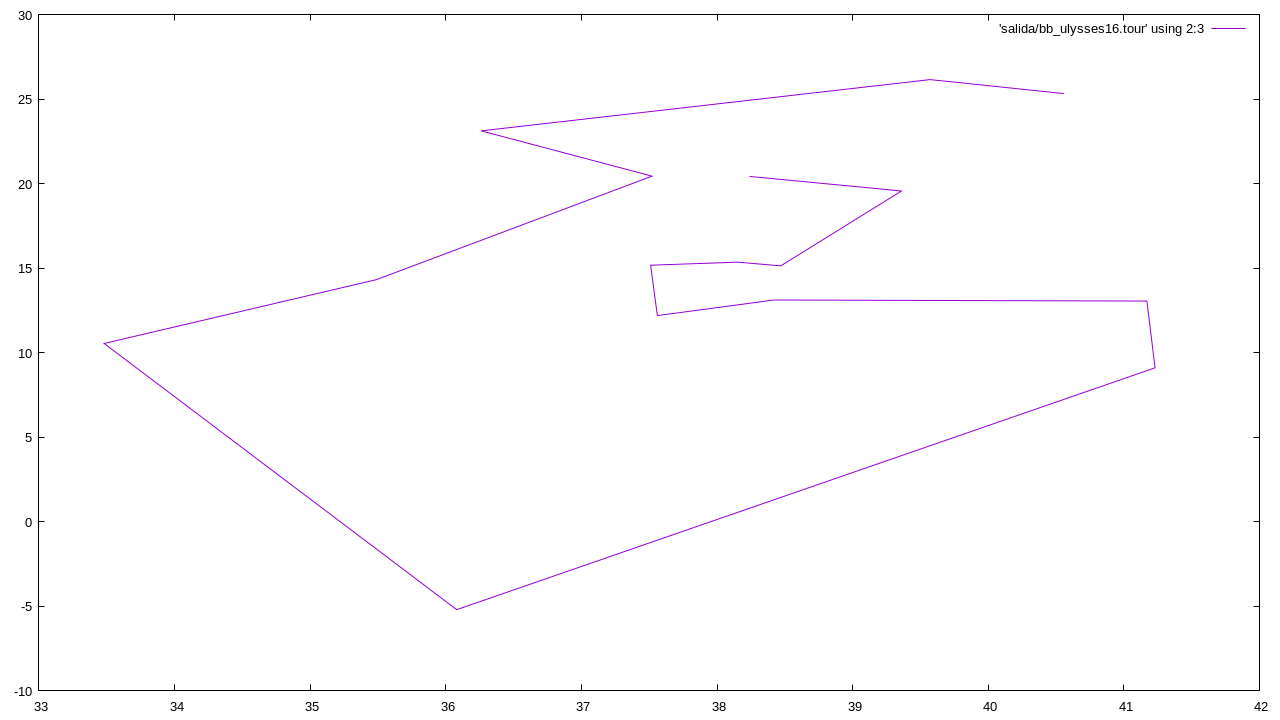
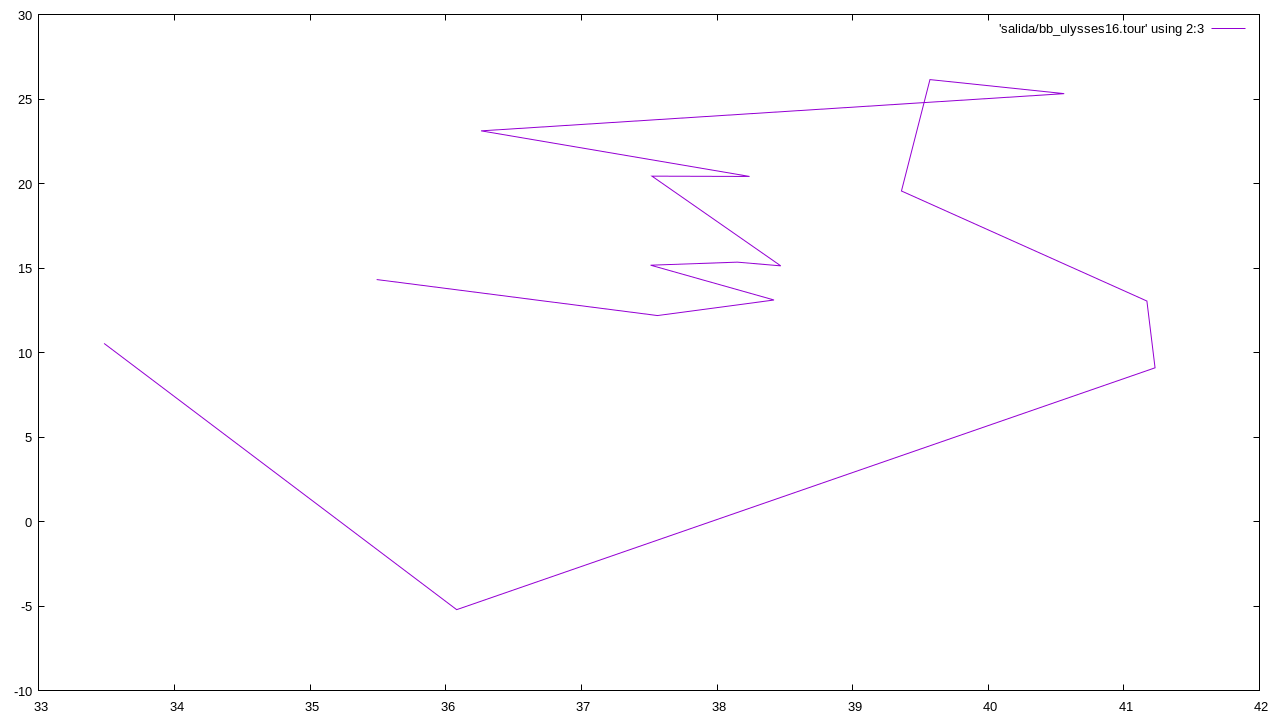
Terminado bb al completo

diff --git a/branch/src/bb.cpp b/branch/src/bb.cpp
@@ -16,47 +16,6 @@
 
 using namespace std;
 
-//============================
-// Auxiliar Functions
-//============================
-/*void printMatrix(vector<vector<double> > &matrix){
-  for(int i=0; i < matrix.size(); i++){
-    for(int j=0; j < matrix[i].size(); j++){
-      printf("%.4f ", matrix[i][j]);
-    }
-    cout << endl;
-  }
-}
-
-template <typename T>
-void printVector(vector<T> &v){
-
-  cout << "[";
-  for(int i =0; i < v.size()-1; i++){
-    cout << v[i] << ",";
-  }
-
-  cout << v[v.size()-1];
-
-  cout << "]";
-}
-
-//Calculate the distance between two nodes
-double distance(pair<double, double> &c1, pair<double, double> &c2){
-  return hypot(c2.first - c1.first, c2.second - c1.second);
-}*/
-
-//Compute length given a path. Takes 2 arguments, the path and the matrix
-//with the distance between cities
-/*double compute_length(vector<int> &path, vector<vector<double> > &cities){
-  double result = 0;
-  for(int i = 0; i < path.size()-1; i++){
-    result += cities[path[i]][path[i+1]];
-  }
-  result += cities[path[0]][path[path.size()-1]];
-  return result;
-}*/
-
 bool visitado(int c, const vector<int> &sol){
 	for(int i=0; i<sol.size(); i++){
 		if(sol[i]==c){
@@ -66,22 +25,25 @@ bool visitado(int c, const vector<int> &sol){
 	return false;
 }
 
+double rowMin(int i, vector<double> &row){
+	double row_min = numeric_limits<int>::max();
+	for(int j=i+1; j < row.size(); j++){
+		  if(row[j] < row_min){
+			row_min = row[j];
+		  }
+	}
+	return row_min;
+}
+
 //Get the sum of the minimum values of each not-used row
 double estimacion(vector<int> &candidates, vector<vector<double> > &cities){
 
   double result = 0;
-  double row_min = numeric_limits<int>::max();
+  double row_min;
 
   for(int i = 0; i < cities.size()-1; i++){
   	if(!visitado(i,candidates)){
-		for(int j = i+1; j < cities.size(); j++){
-		  if(cities[i][j] < row_min){
-			row_min = cities[i][j];
-		  }
-		}
-
-		result += row_min;
-		row_min = numeric_limits<int>::max();
+		result += rowMin(i, cities[i]);
     }
   }
 
@@ -139,32 +101,38 @@ void magic(priority_queue<Comparator, vector<pair<double, vector<int> > > > &ali
   //The first coordinate is the possible cost of the path and the second
   //is the actual path
   
- pair<double, vector<int> > solution = alives.top();	//Toma el primero de la cola
- double local_length = solution.first;					//Guardamos la distancia actual recorrida
+ pair<double, vector<int> > aux, solution = alives.top();	//Toma el primero de la cola
+ double min, diferencia, local_length = solution.first;					//Guardamos la distancia actual recorrida
  alives.pop(); 											//Quitamos el elemento de la cima
  
   if(solution.second.size() == cities.size()){			//Si es una hoja, le añade el último arco (hacia el inicio)
   	local_length += cities[solution.second[solution.second.size()-1]][solution.second[0]];
+  }else{
+  	min = estimacion(solution.second, cities);
   }
   
   if(local_length < best.first){					//Si sobrepasa la cota se poda el nodo (se ignora)
-	  if(solution.second.size() < cities.size()){	// Si no es una hoja, desarrolla los nodos hijos (si 
-		  for (int i=1; i<cities.size(); i++){		//tienen una estimación válida)
+	  if(solution.second.size() < cities.size()){			// Si no es una hoja, desarrolla los nodos hijos (si 
+	  	  solution.second.push_back(solution.second[0]);    //tienen una estimación válida)
+		  for (int i=0; i<cities.size(); i++){		
 		  	if(!visitado(i,solution.second)){
-		  		pair<double, vector<int> > aux(solution);
-		  		local_length = aux.first + cities[i][aux.second[aux.second.size()-1]];
+		  		solution.second[solution.second.size()-1] = i;
+		  		local_length = solution.first + cities[i][solution.second[solution.second.size()-2]];
 			  	aux.first = local_length;
-		  		aux.second.push_back(i);
 		  		
-		  		if(local_length + estimacion(aux.second, cities) < best.first){	//Comprueba si merece la pena explorarlo
-			  		aux.first = local_length;
+		  		diferencia = rowMin(i, cities[i]);		//Se simplifica el cálculo de la estimación
+		  		min -= diferencia;
+		  		if(local_length + min < best.first){	//Comprueba si merece la pena explorarlo
+			  		aux.second = solution.second;
 		  			alives.push(aux);
 		  		}
+		  		min += diferencia;
 		  	}
 		  }
+		  solution.second.pop_back();
 	  }else{										//Si es una hoja, reemplaza la mejor solución
 	  	  ///////////////Comprobación temporal//////////////////
-	  	  cout << local_length << " " << best.first <<endl;
+	  	  //cout << local_length << " " << best.first <<endl;
 	  	  //////////////////////////////////////////////////////
 		  best = solution;
 		  best.first = local_length;
@@ -232,7 +200,7 @@ int main(int argc, char **argv){
 
   //Algorithm
   priority_queue<Comparator, vector<pair<double, vector<int> > > > alives;	//Creates the priority queue
-  alives.push({farthest(coordinates),{0}});
+  alives.push({0,{farthest(coordinates)}});
   vector<int> aux(N,0); 
   solution.first = 0;
   solution.second = aux;
